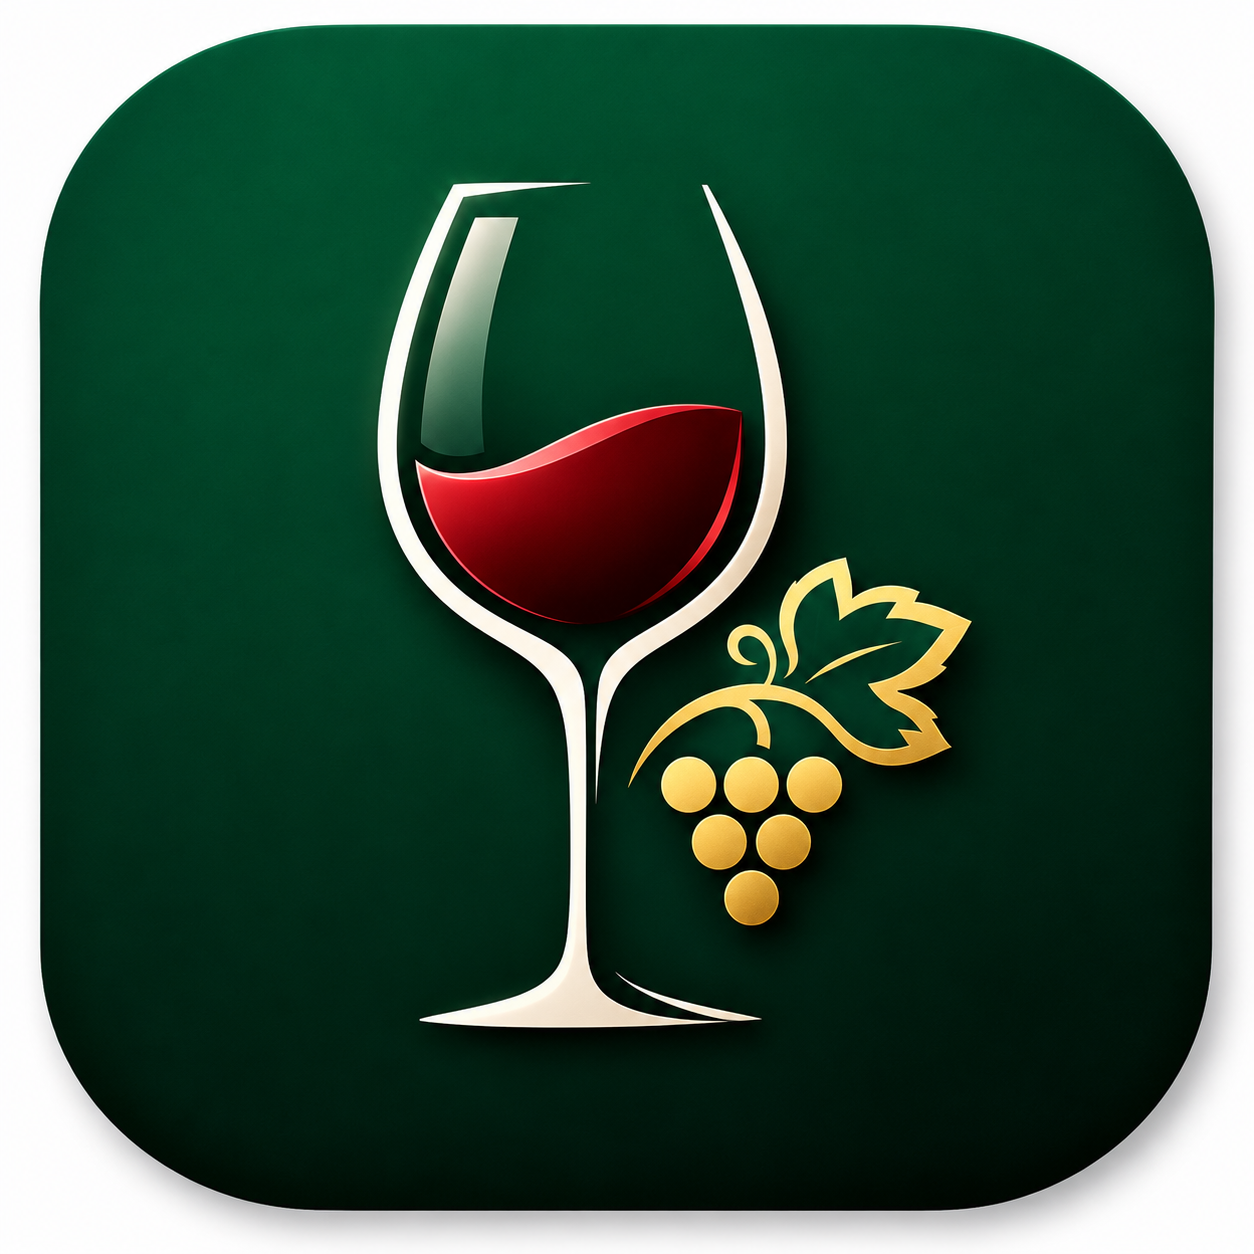
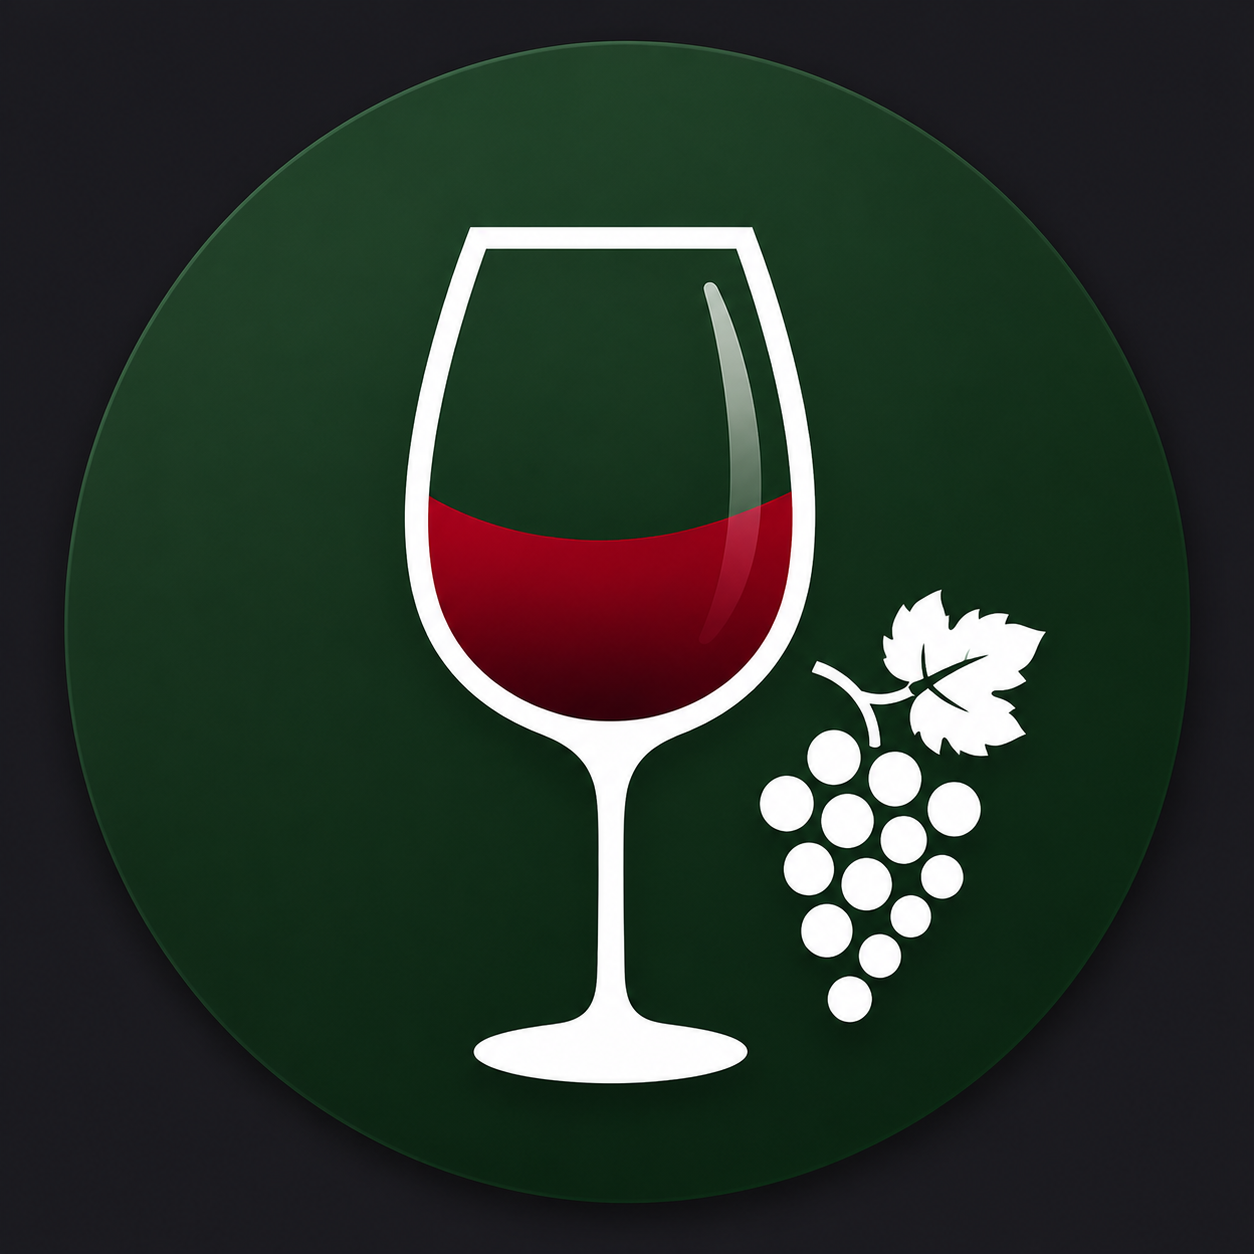
Uppdatering

diff --git a/src/style.css b/src/style.css
@@ -59,9 +59,9 @@ body {
 
 .header h1 {
 
-    margin:0;
-
-    font-size:36px;
+    display:flex;
+    align-items:center;
+    gap:12px;
 
 }
 
@@ -109,7 +109,7 @@ body {
     background:
         rgba(255,255,255,.15);
 
-    padding:15px 25px;
+    padding:12px 16px;
 
     border-radius:12px;
 
@@ -540,33 +540,120 @@ body {
 @media (max-width: 800px){
 
     body{
-        padding:15px;
+        padding:12px;
     }
 
+    /* ---------- Header ---------- */
+
+    .header{
+
+        padding:20px;
+        margin-bottom:20px;
+        border-radius:16px;
+
+    }
+
+    .header h1{
+
+        gap:8px;
+        font-size:1.8rem;
+
+    }
+
+    .emoji{
+
+        font-size:1.5rem;
+
+    }
+
+    .header p{
+
+        margin-top:6px;
+        font-size:1rem;
+
+    }
+
+    .updated{
+
+        margin-top:10px;
+        font-size:.9rem;
+
+    }
+
+    /* ---------- Statistik ---------- */
+
+    .summary{
+
+        gap:10px;
+        margin-top:18px;
+
+    }
+
+    .summary-box{
+
+        flex:1 1 calc(50% - 10px);
+
+        min-width:0;
+
+        padding:12px;
+
+    }
+
+    .summary-box strong{
+
+        font-size:2rem;
+
+    }
+
+    .summary-box span{
+
+        font-size:.95rem;
+
+    }
+
+    /* ---------- Sökfält ---------- */
+
+    #search{
+
+        padding:15px 18px;
+        font-size:16px;
+
+    }
+
+    /* ---------- Produkter ---------- */
+
     .products{
+
         grid-template-columns:1fr;
+
     }
 
     .wine-card{
+
         overflow:hidden;
+
     }
 
     .image-area{
+
         height:120px;
         display:flex;
         justify-content:center;
         align-items:center;
         overflow:hidden;
         background:#fafafa;
+
     }
 
     .image-area img{
+
         display:block;
         width:auto !important;
         height:100px !important;
         max-width:70px !important;
         max-height:100px !important;
         object-fit:contain;
+
     }
 
 }

diff --git a/src/html.js b/src/html.js
@@ -71,7 +71,10 @@ ${css}
 
 <header class="header">
 
-    <h1>🍷 Tillfälligt sortiment</h1>
+    <h1>
+    <span class="emoji">🍷</span>
+    <span>Tillfälligt sortiment</span>
+    </h1>
 
     <p>
         Växjöbutikerna · Tillfälligt sortiment